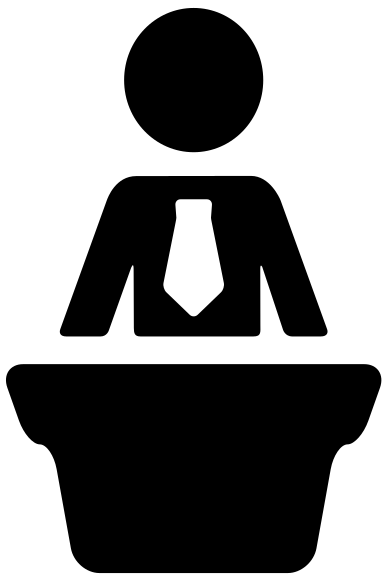
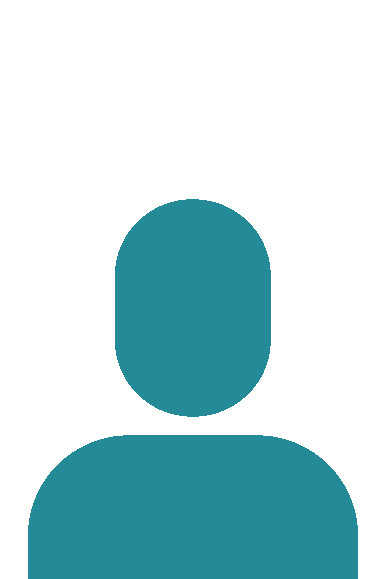
Improve talk detail page
- use a more neutral dummy speaker image
- add room and time slot information in sidebar
- fix typo in talk-details.scss to make speaker name visible in sidebar

diff --git a/devday/talk/templates/talk/talk_details.html b/devday/talk/templates/talk/talk_details.html
@@ -142,5 +142,12 @@
             </div>
         {% endfor %}
         </div>
+        {# only show room and time for current event and when the talk is scheduled #}
+        {% if current and talk.talkslot %}
+            <div class="row session-details">
+                <div class="col-12">{% trans "Room:" %} {{ talk.talkslot.room.name }}</div>
+                <div class="col-12">{{ talk.talkslot.time.start_time|time:"TIME_FORMAT" }} - {{ talk.talkslot.time.end_time|time:"TIME_FORMAT" }}</div>
+            </div>
+        {% endif %}
     </div>
 {% endblock content_box_2_wrapper %}

diff --git a/devday/devday/static/css/style.css b/devday/devday/static/css/style.css
@@ -23243,16 +23243,20 @@ hr {
   margin: 0 auto;
 }
 
-.speaker-datails .speaker-name {
+.speaker-details .speaker-name {
   font-size: 30px;
   margin-top: 8px;
   margin-bottom: 34px;
 }
-.speaker-datails .speaker-name a {
+.speaker-details .speaker-name a {
   color: #ffffff;
 }
-.speaker-datails .speaker-image img {
+.speaker-details .speaker-image img {
   max-width: 250px;
+}
+
+.session-details {
+  font-size: 25px;
 }
 
 @media (max-width: 767.98px) {

diff --git a/frontend/src/scss/components/talk-details.scss b/frontend/src/scss/components/talk-details.scss
@@ -75,7 +75,7 @@
     }
 }
 
-.speaker-datails {
+.speaker-details {
     .speaker-name {
         font-size: 30px;
         margin-top: 8px;
@@ -91,6 +91,10 @@
             max-width: 250px;
         }
     }
+}
+
+.session-details {
+    font-size: 25px;
 }
 
 @include media-breakpoint-down(sm) {
